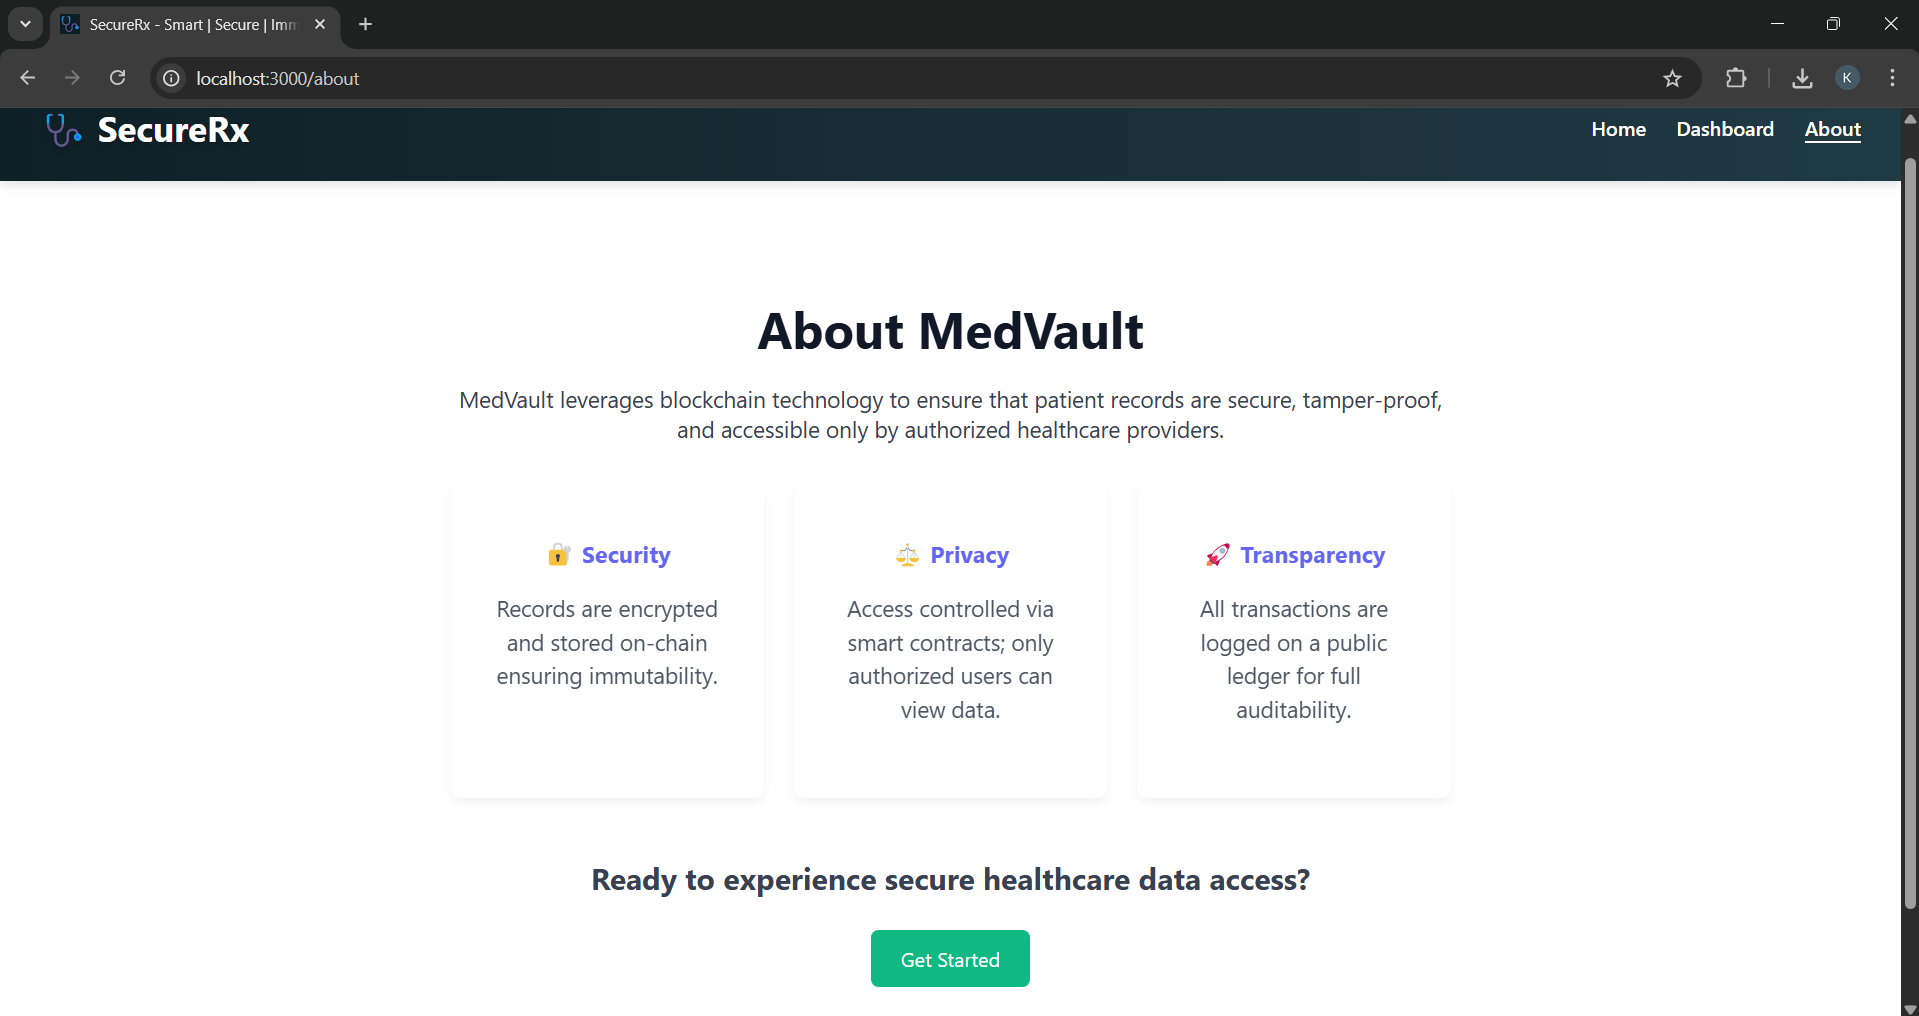
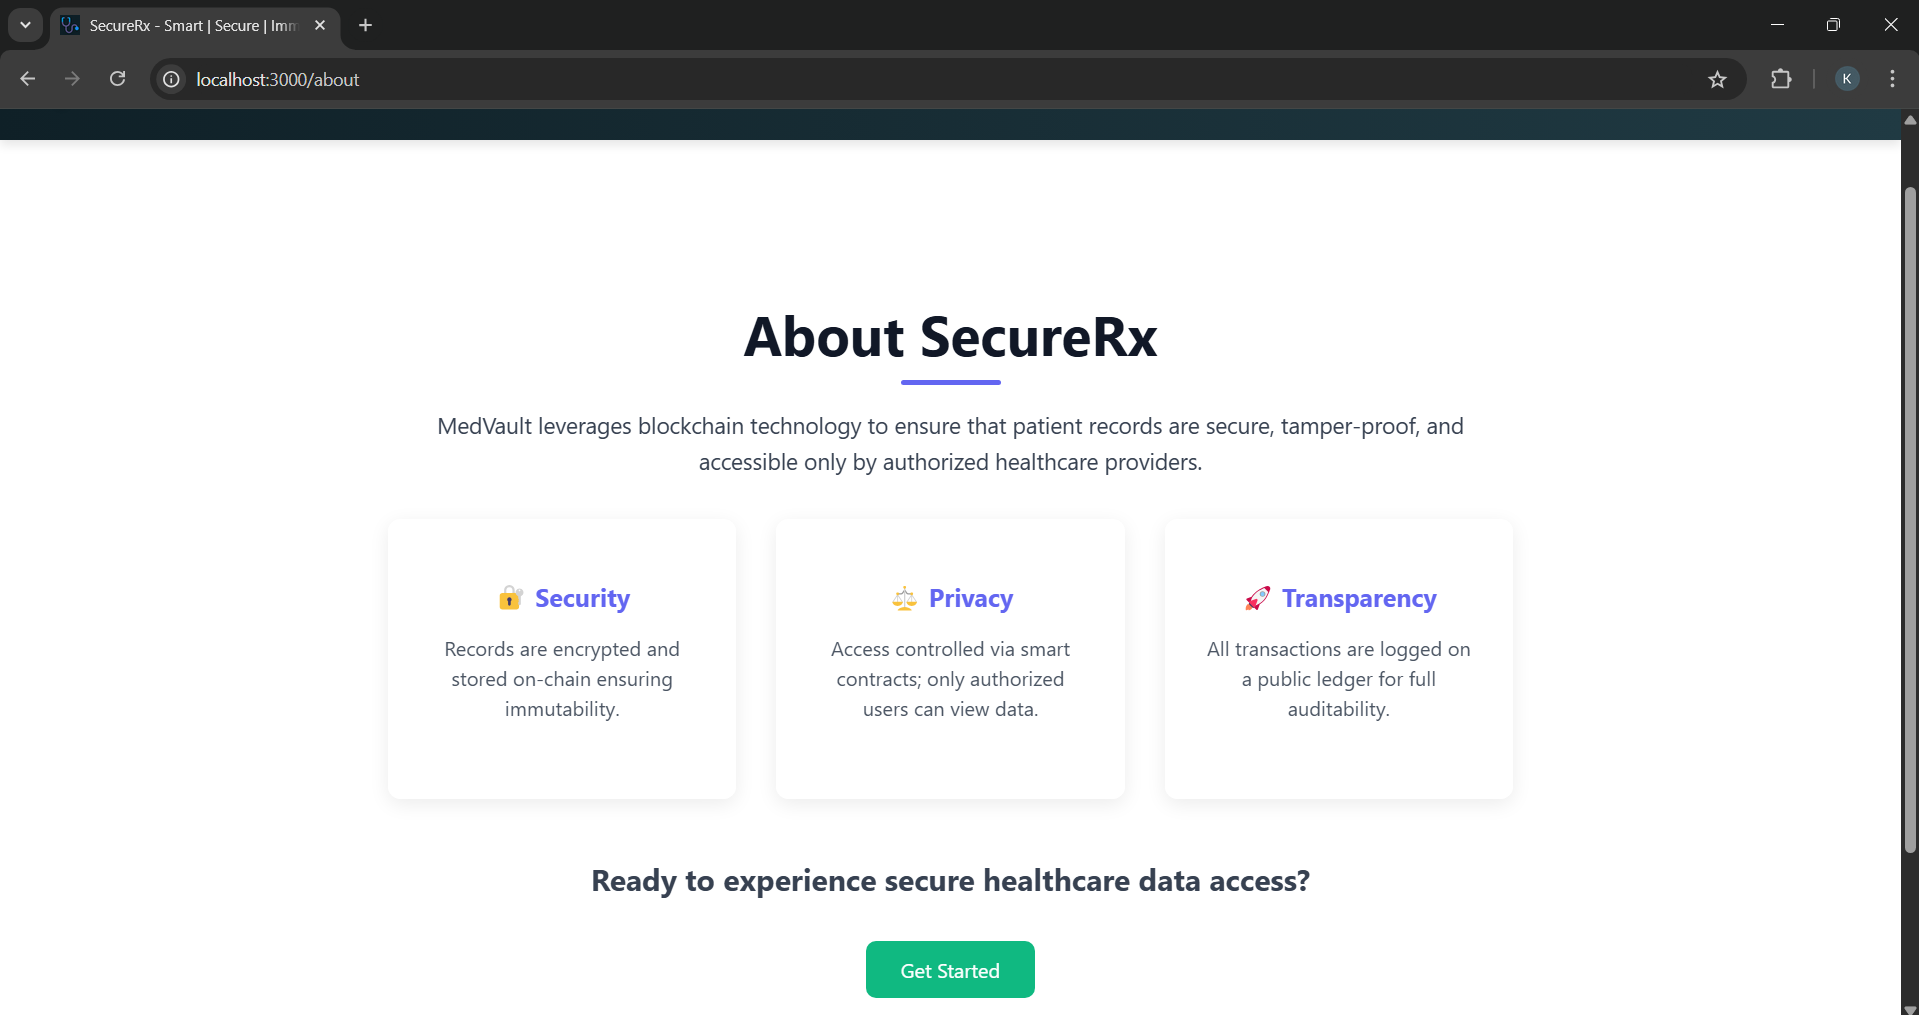
Deployed site

diff --git a/src/css/About.css b/src/css/About.css
@@ -1,70 +1,96 @@
 .about-container {
-    height: calc(75vh - 0px);
-    max-width: 800px;
-    margin: 3rem auto;
-    padding: 1rem;
-    text-align: center;
+  max-width: 900px;
+  margin: 4rem auto;
+  padding: 2rem;
+  text-align: center;
+  background: rgba(255, 255, 255, 0.8);
+  border-radius: 12px;
+  backdrop-filter: blur(8px);
+}
+
+.about-container h1 {
+  font-size: 2.75rem;
+  margin-bottom: 1rem;
+  color: #111827;
+  position: relative;
+}
+.about-container h1::after {
+  content: "";
+  display: block;
+  width: 80px;
+  height: 4px;
+  margin: 0.5rem auto 0;
+  background: #6366f1;
+  border-radius: 2px;
+}
+
+.about-container p {
+  font-size: 1.125rem;
+  margin-bottom: 2rem;
+  color: #374151;
+  line-height: 1.6;
+}
+
+.features-grid {
+  display: grid;
+  grid-template-columns: repeat(auto-fit, minmax(240px, 1fr));
+  gap: 2rem;
+  margin-bottom: 3rem;
+}
+
+.feature-card {
+  background: rgba(255, 255, 255, 0.6);
+  border-radius: 10px;
+  padding: 1.75rem;
+  box-shadow: 0 4px 16px rgba(0, 0, 0, 0.08);
+  transition: transform 0.3s ease, box-shadow 0.3s ease;
+}
+.feature-card:hover {
+  transform: translateY(-6px);
+  box-shadow: 0 8px 24px rgba(0, 0, 0, 0.12);
+}
+.feature-card h3 {
+  font-size: 1.25rem;
+  margin-bottom: 0.75rem;
+  color: #6366f1;
+}
+.feature-card p {
+  font-size: 1rem;
+  color: #4b5563;
+  line-height: 1.5;
+}
+
+.get-started-section {
+  margin-top: 2rem;
+}
+.get-started-section h2 {
+  font-size: 1.5rem;
+  margin-bottom: 0.75rem;
+  color: #374151;
+}
+.get-started-button {
+  display: inline-block;
+  background: #10b981;
+  color: #ffffff;
+  padding: 0.75rem 1.75rem;
+  font-size: 1rem;
+  border-radius: 8px;
+  text-decoration: none;
+  transition: background 0.3s ease, transform 0.2s ease;
+}
+.get-started-button:hover {
+  background: #059669;
+  transform: translateY(-2px);
+}
+
+@media (max-width: 480px) {
+  .about-container {
+    padding: 1.5rem;
   }
   .about-container h1 {
-    font-size: 2.5rem;
-    margin-bottom: 1rem;
-    color: #111827;
+    font-size: 2rem;
   }
   .about-container p {
-    font-size: 1.125rem;
-    margin-bottom: 2rem;
-    color: #374151;
-  }
-  .features-grid {
-    display: grid;
-    grid-template-columns: 1fr;
-    gap: 1.5rem;
-  }
-  @media (min-width: 640px) {
-    .features-grid {
-      grid-template-columns: repeat(3, 1fr);
-    }
-  }
-  .feature-card {
-    background: #ffffff;
-    padding: 1.5rem;
-    border-radius: 8px;
-    box-shadow: 0 4px 8px rgba(0,0,0,0.05);
-    transition: transform 0.2s;
-  }
-  .feature-card:hover {
-    transform: translateY(-4px);
-  }
-  .feature-card h3 {
-    margin-bottom: 0.75rem;
-    color: #6366f1;
-  }
-  .feature-card p {
-    color: #4b5563;
-  }
-  .get-started-section {
-    margin-top: 3rem;
-    text-align: center;
-  }
-  
-  .get-started-section h2 {
-    font-size: 1.5rem;
-    margin-bottom: 1rem;
-    color: #374151;
-  }
-  
-  .get-started-button {
-    background-color: #10b981;
-    color: white;
-    padding: 0.75rem 1.5rem;
     font-size: 1rem;
-    text-decoration: none;
-    border-radius: 6px;
-    transition: background-color 0.3s ease, transform 0.2s ease;
   }
-  
-  .get-started-button:hover {
-    background-color: #059669;
-    transform: translateY(-2px);
-  }
-  
+}

diff --git a/src/css/LandingPage.css b/src/css/LandingPage.css
@@ -43,12 +43,10 @@
   cursor: pointer;
   transition: background 0.2s, transform 0.1s, border-color 0.2s;
 }
-
 .landing-button.primary:hover {
   background: #059669;
   transform: translateY(-2px);
 }
-
 .landing-button.primary:focus {
   outline: none;
   border-color: #059669;
@@ -69,10 +67,12 @@
 }
 
 .features-grid {
-  display: grid;
-  grid-template-columns: repeat(auto-fit, minmax(220px, 1fr));
-  gap: 2rem;
-  margin-top: 2rem;
+  display: grid !important;
+  grid-template-columns: repeat(3, 1fr) !important;
+  grid-template-rows: repeat(2, auto) !important;
+  gap: 2rem !important;
+  margin-top: 2rem !important;
+  justify-items: stretch;
 }
 
 .feature-card {
@@ -83,18 +83,15 @@
   backdrop-filter: blur(10px);
   transition: transform 0.2s, box-shadow 0.2s;
 }
-
 .feature-card:hover {
   transform: translateY(-4px);
   box-shadow: 0 8px 16px rgba(0, 0, 0, 0.1);
 }
-
 .feature-card h4 {
   font-size: 1.25rem;
   margin-bottom: 0.75rem;
   color: #6366f1;
 }
-
 .feature-card p {
   font-size: 1rem;
   line-height: 1.5;
@@ -112,13 +109,12 @@
   transition: background 0.2s, transform 0.1s;
   margin-top: 2rem;
 }
-
 .landing-button.secondary:hover {
   background: linear-gradient(90deg, #4b5563, #6b7280);
   transform: translateY(-2px);
 }
 
-@media (max-width: 640px) {
+@media (max-width: 480px) {
   .landing-title {
     font-size: 2.25rem;
   }
@@ -129,8 +125,5 @@
   .landing-button.secondary {
     width: 100%;
     padding: 0.75rem;
-  }
-  .features-section {
-    padding: 2rem 1rem;
   }
 }

diff --git a/src/components/About.js b/src/components/About.js
@@ -4,7 +4,7 @@ import '../css/About.css';
 
 const About = () => (
   <div className="about-container">
-    <h1>About MedVault</h1>
+    <h1>About SecureRx</h1>
     <p>
       MedVault leverages blockchain technology to ensure that patient records are
       secure, tamper-proof, and accessible only by authorized healthcare providers.
